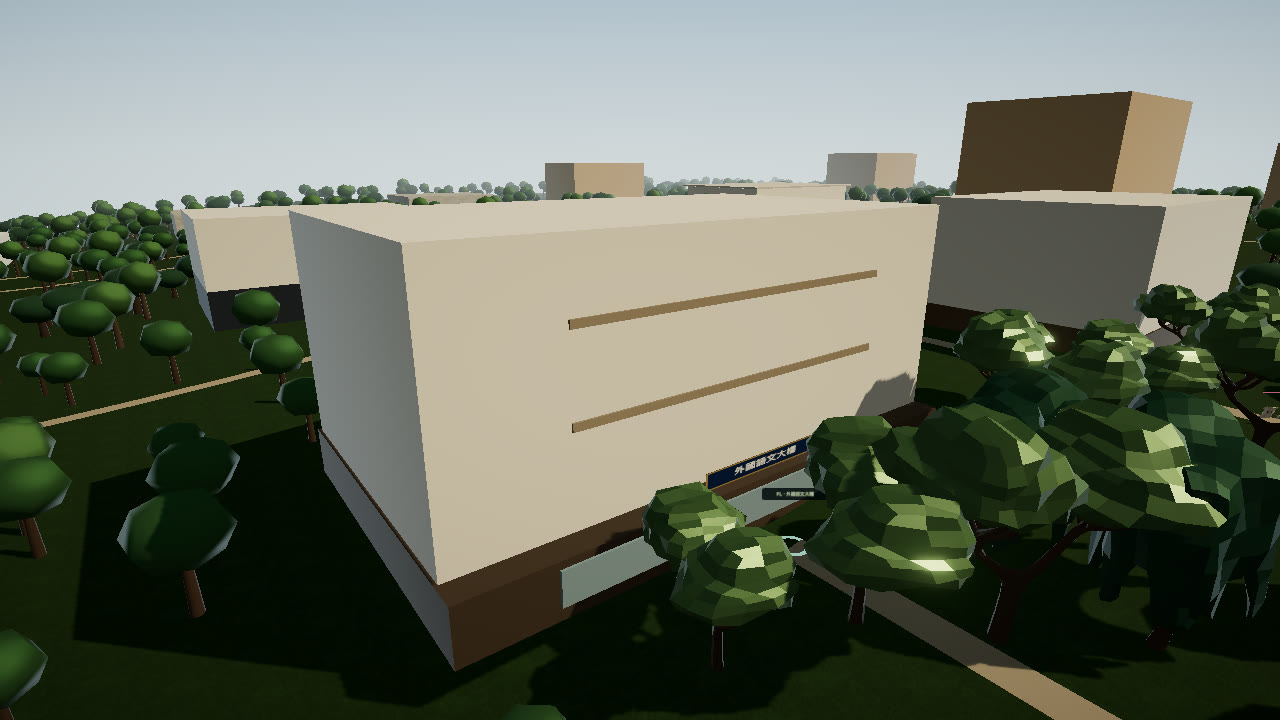
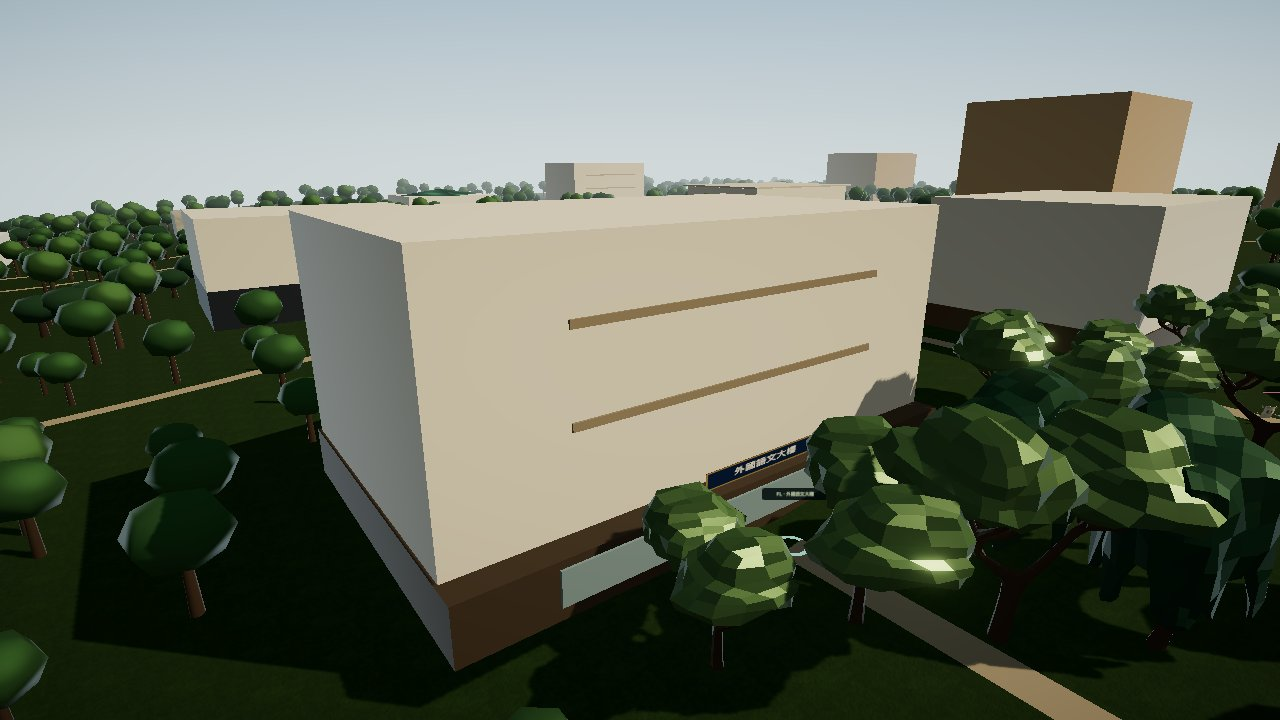
Record the foreign-language hall integration check.
The campus foreign hall is now a ground gallery with a set-back upper block. Education and Hweiwen stay classroom blocks.

diff --git a/docs/integration/CONTRACTS.md b/docs/integration/CONTRACTS.md
@@ -58,7 +58,7 @@ URL 帶內容雜湊。幾何與 atlas 共享。卸載只走 `releaseArtInstance`
 
 `form === "gate"` 的建築（大門警衛站、大忠警衛站）畫成兩根門柱加橫樑。`gatePiers` 的門柱寬是 1.5。碰撞只加在門柱上，開口中心可以站。這是估計外形，不是實測門寬。
 
-白樓的種類是 `white-block`。`theme === "arts"` 是 `hip-roof-block`，宿舍是 `dorm-block`，實驗樓是 `lab-block`，運動館是 `sport-hall`，教學樓是 `study-block`。清冊裡沿用的商管大樓 `business-building` 也是 `study-block`：深色基座、淺色上層、近處橫樑。書圖區的 `integrated` 是 `linked-hall`：玻璃基座用整棟底面積，上層退縮，上層窗帶跟 `linkedHallProfile` 的牆面，不再用整棟的寬。圖書館仍用既有量體。沿用的 `chingsheng-building` 是 `memorial-tower`：深色基座、石色樓身、底層玻璃、平頂壓簷，不畫共用窗帶，也沒有綠瓦。文學館仍是 `hip-roof-block`。樓身外形仍是 estimated。文藝區的 `conference` 是 `forum-hall`：低寬淺色量體、南向玻璃帶、出挑屋簷，不畫共用窗帶。海事博物館仍是船型。運動區的 `reviewing` 是 `stand`：低平台、後方小間、棚頂，不畫共用窗帶，也不畫實驗樓屋頂設備。台面還不能走上去。理工區的 `wind-lab` 是 `shed`：低長廠房、屋頂風管、一端進氣箱，不畫共用窗帶。化學館仍是 `lab-block`。理工區的 `architecture` 是 `studio-block`：混凝土量體、南向玻璃、遮陽板、屋頂採光，不畫共用窗帶。主題仍是 `arts`，id 覆寫留在主題判斷前面，所以不再戴綠瓦。工作室外形仍是 estimated。生活區的 `reitaku` 是 `intl-dorm`：淺灰綠牆、底層玻璃門廳、平頂橫樑。松濤仍是暖色 `dorm-block`。麗澤仍畫共用窗帶。生活區的 `faculty` 是 `faculty-house`：淺色樓身、南向門廊、兩條窗帶，不畫共用窗帶，也沒有宿舍屋頂量體。主題仍是 `dorm`，id 覆寫留在主題判斷前面。松濤一館到五館仍是 `dorm-block`。麗澤仍是 `intl-dorm`。門廊外形仍是 estimated。教學區的 `business-o` 與 `business-q` 是 `media-hall`：深色基座、淺色上層、屋頂天線。文學館仍是 `hip-roof-block`。傳播館仍畫共用窗帶。天線不是實測。文藝區的 `audiovisual` 是 `auditorium`：深色廳堂、屋頂一端舞台塔。共用窗帶仍畫。舞台塔不是實測。文藝區的 `commons` 是 `activity-hall`：一層門廳、南向玻璃、遮陽板、退縮上層，不畫共用窗帶。主題仍是 `arts`，id 覆寫留在主題判斷前面。分區仍是 culture-58。覺軒仍是 `hip-roof-block`。門廳外形仍是 estimated。文藝區的 `yingyuan` 是 `garden-house`：白牆、木色基座、收緊的綠瓦坡頂、南向迴廊，不畫共用窗帶。白牆從基座頂接到坡頂底。主題仍是 `arts`，id 覆寫留在主題判斷前面。文學館與覺軒仍是 `hip-roof-block`。迴廊與坡頂外形仍是 estimated。軸線上的 `security` 是 `watch-post`：低崗亭、南向窗、屋頂天線，不畫共用窗帶，也不畫實驗樓屋頂設備。主題仍是 `lab`，id 覆寫留在主題判斷前面。化學館仍是 `lab-block`。大門仍是 `gate`。崗亭外形仍是 estimated。理工區的 `engineering` 是 `eng-tower`：深色基座、退縮的淺色塔樓、兩條窗帶貼在退縮面上，不畫共用窗帶，也不畫實驗樓屋頂設備。主題仍是 `lab`，id 覆寫留在主題判斷前面。化學館仍是 `lab-block`。塔樓外形仍是 estimated。沿用的 `gymnasium` 是 `arena`：淺色館身、深色台基、南向高側窗、出挑平頂，不畫共用窗帶。司令臺仍是 `stand`。館身外形仍是 estimated。運動區的 `swimming` 是 `pool-hall`：深色基座、淺色長廳、南向高窗、屋頂長脊，不畫共用窗帶。主題仍是 `sport`，id 覆寫留在主題判斷前面。體育館仍是 `arena`。水道長度仍待測。館身外形仍是 estimated。文藝區的 `administration` 是 `office-block`：石色樓身、深色基座、南向入口玻璃、兩條窗帶，不畫共用窗帶。主題仍是 `study`，id 覆寫留在主題判斷前面。教育館、外語大樓與會文館仍是 `study-block`。舊的 admin-hall 不合併。入口位置仍待測。外形仍是 estimated。理工區的 `science` 是 `science-hall`：淺色館身、東側直玻璃、壓簷，不畫共用窗帶，也沒有實驗樓屋頂設備。主題仍是 `lab`，id 覆寫留在主題判斷前面。化學館仍是 `lab-block`。未匯出的舊剪影 `science-hall` 沒有畫進場景。館身外形仍是 estimated。理工區的 `old-engineering` 是 `workshop`：磚紅基座、淺色上層、南向玻璃、屋頂小間，不畫共用窗帶，也沒有實驗樓屋頂設備。主題仍是 `lab`，id 覆寫留在主題判斷前面。工學大樓仍是 `eng-tower`。化學館仍是 `lab-block`。館身外形仍是 estimated。精度仍是 estimated。`form === "gate"` 仍是 `gate`，不因教學樓量體改回方塊。窗帶、名牌、坡頂、宿舍退縮層、實驗樓屋頂設備和教學樓橫樑由 `contextShowsDetail` 決定。高畫質 90 m 內才畫，省電是 48 m。量體一直留著。精度仍是 estimated。
+白樓的種類是 `white-block`。`theme === "arts"` 是 `hip-roof-block`，宿舍是 `dorm-block`，實驗樓是 `lab-block`，運動館是 `sport-hall`，教學樓是 `study-block`。清冊裡沿用的商管大樓 `business-building` 也是 `study-block`：深色基座、淺色上層、近處橫樑。書圖區的 `integrated` 是 `linked-hall`：玻璃基座用整棟底面積，上層退縮，上層窗帶跟 `linkedHallProfile` 的牆面，不再用整棟的寬。圖書館仍用既有量體。沿用的 `chingsheng-building` 是 `memorial-tower`：深色基座、石色樓身、底層玻璃、平頂壓簷，不畫共用窗帶，也沒有綠瓦。文學館仍是 `hip-roof-block`。樓身外形仍是 estimated。文藝區的 `conference` 是 `forum-hall`：低寬淺色量體、南向玻璃帶、出挑屋簷，不畫共用窗帶。海事博物館仍是船型。運動區的 `reviewing` 是 `stand`：低平台、後方小間、棚頂，不畫共用窗帶，也不畫實驗樓屋頂設備。台面還不能走上去。理工區的 `wind-lab` 是 `shed`：低長廠房、屋頂風管、一端進氣箱，不畫共用窗帶。化學館仍是 `lab-block`。理工區的 `architecture` 是 `studio-block`：混凝土量體、南向玻璃、遮陽板、屋頂採光，不畫共用窗帶。主題仍是 `arts`，id 覆寫留在主題判斷前面，所以不再戴綠瓦。工作室外形仍是 estimated。生活區的 `reitaku` 是 `intl-dorm`：淺灰綠牆、底層玻璃門廳、平頂橫樑。松濤仍是暖色 `dorm-block`。麗澤仍畫共用窗帶。生活區的 `faculty` 是 `faculty-house`：淺色樓身、南向門廊、兩條窗帶，不畫共用窗帶，也沒有宿舍屋頂量體。主題仍是 `dorm`，id 覆寫留在主題判斷前面。松濤一館到五館仍是 `dorm-block`。麗澤仍是 `intl-dorm`。門廊外形仍是 estimated。教學區的 `business-o` 與 `business-q` 是 `media-hall`：深色基座、淺色上層、屋頂天線。文學館仍是 `hip-roof-block`。傳播館仍畫共用窗帶。天線不是實測。文藝區的 `audiovisual` 是 `auditorium`：深色廳堂、屋頂一端舞台塔。共用窗帶仍畫。舞台塔不是實測。文藝區的 `commons` 是 `activity-hall`：一層門廳、南向玻璃、遮陽板、退縮上層，不畫共用窗帶。主題仍是 `arts`，id 覆寫留在主題判斷前面。分區仍是 culture-58。覺軒仍是 `hip-roof-block`。門廳外形仍是 estimated。文藝區的 `yingyuan` 是 `garden-house`：白牆、木色基座、收緊的綠瓦坡頂、南向迴廊，不畫共用窗帶。白牆從基座頂接到坡頂底。主題仍是 `arts`，id 覆寫留在主題判斷前面。文學館與覺軒仍是 `hip-roof-block`。迴廊與坡頂外形仍是 estimated。軸線上的 `security` 是 `watch-post`：低崗亭、南向窗、屋頂天線，不畫共用窗帶，也不畫實驗樓屋頂設備。主題仍是 `lab`，id 覆寫留在主題判斷前面。化學館仍是 `lab-block`。大門仍是 `gate`。崗亭外形仍是 estimated。理工區的 `engineering` 是 `eng-tower`：深色基座、退縮的淺色塔樓、兩條窗帶貼在退縮面上，不畫共用窗帶，也不畫實驗樓屋頂設備。主題仍是 `lab`，id 覆寫留在主題判斷前面。化學館仍是 `lab-block`。塔樓外形仍是 estimated。沿用的 `gymnasium` 是 `arena`：淺色館身、深色台基、南向高側窗、出挑平頂，不畫共用窗帶。司令臺仍是 `stand`。館身外形仍是 estimated。運動區的 `swimming` 是 `pool-hall`：深色基座、淺色長廳、南向高窗、屋頂長脊，不畫共用窗帶。主題仍是 `sport`，id 覆寫留在主題判斷前面。體育館仍是 `arena`。水道長度仍待測。館身外形仍是 estimated。文藝區的 `administration` 是 `office-block`：石色樓身、深色基座、南向入口玻璃、兩條窗帶，不畫共用窗帶。主題仍是 `study`，id 覆寫留在主題判斷前面。教育館與會文館仍是 `study-block`。舊的 admin-hall 不合併。入口位置仍待測。外形仍是 estimated。教學區的 `foreign` 是 `language-hall`：暖色底層、南向長廊玻璃、退縮的淺色上層，不畫共用窗帶。上層窗帶貼著退縮的牆。主題仍是 `study`，id 覆寫留在主題判斷前面。舊的 foreign-lang-hall 不合併。長廊外形仍是 estimated。理工區的 `science` 是 `science-hall`：淺色館身、東側直玻璃、壓簷，不畫共用窗帶，也沒有實驗樓屋頂設備。主題仍是 `lab`，id 覆寫留在主題判斷前面。化學館仍是 `lab-block`。未匯出的舊剪影 `science-hall` 沒有畫進場景。館身外形仍是 estimated。理工區的 `old-engineering` 是 `workshop`：磚紅基座、淺色上層、南向玻璃、屋頂小間，不畫共用窗帶，也沒有實驗樓屋頂設備。主題仍是 `lab`，id 覆寫留在主題判斷前面。工學大樓仍是 `eng-tower`。化學館仍是 `lab-block`。館身外形仍是 estimated。精度仍是 estimated。`form === "gate"` 仍是 `gate`，不因教學樓量體改回方塊。窗帶、名牌、坡頂、宿舍退縮層、實驗樓屋頂設備和教學樓橫樑由 `contextShowsDetail` 決定。高畫質 90 m 內才畫，省電是 48 m。量體一直留著。精度仍是 estimated。
 
 高畫質的詳細樹冠半徑是 `vegetationRange` 48。再遠換成便宜樹冠。省電畫質本來就用 `simpleTrees`，70 m 是便宜樹冠的距離，不是第二個細模半徑。
 

diff --git a/docs/integration/HANDOFF.md b/docs/integration/HANDOFF.md
@@ -4,18 +4,18 @@
 
 ## 現在
 
-- 這次整合把濯纓苑／校史館改成白牆、木色基座、收緊的綠瓦坡頂和南向迴廊。白牆從基座頂接到坡頂底。遊戲程式是 `c571687`，接到 `origin/main` `65507cd`。
-- 迴廊與坡頂外形仍是 estimated。文學館與覺軒仍是坡頂。實棟學人宿舍仍是淺色樓身和南向門廊。
-- 沒有新增音效。1280×720 看得到白牆、基座、坡頂、迴廊和名牌。390×780 是近景，基座、白牆、坡頂和迴廊仍在畫面裡。
-- 跨系統路線在 `http://127.0.0.1:8134/` 通過：經驗 20、筆記 19、突襲小考 65→45、第二客戶端、`revision_conflict`、斷線佇列 `cloudXp` 23、登出 401。`pageErrors` 空。
+- 這次整合把外國語文大樓改成暖色底層、南向長廊玻璃和退縮的淺色上層。遊戲程式是 `088a3ef`，接到 `origin/main` `1565a74`。
+- 長廊外形仍是 estimated。教育館與會文館仍是教學樓。舊的 foreign-lang-hall 不合併。濯纓苑仍是白牆園舍。
+- 沒有新增音效。1280×720 看得到暖色底層、長廊玻璃、退縮上層、兩條窗帶和名牌。390×780 是南向近景，窗帶、名牌、長廊玻璃和底層仍在畫面裡。
+- 跨系統路線在 `http://127.0.0.1:8135/` 通過：經驗 20、筆記 19、突襲小考 65→45、第二客戶端、`revision_conflict`、斷線佇列 `cloudXp` 23、登出 401。`pageErrors` 空。
 
-## 本輪已驗證（濯纓苑）
+## 本輪已驗證（外國語文大樓）
 
-`node --test scripts/context-lod.test.mjs` 通過。`npm test` 266 通過。`node --experimental-transform-types scripts/integration-route.mjs` 走 `http://127.0.0.1:8134/`。幀時間是 SwiftShader。
+`node --test scripts/context-lod.test.mjs` 通過。`npm test` 266 通過。`node --experimental-transform-types scripts/integration-route.mjs` 走 `http://127.0.0.1:8135/`。幀時間是 SwiftShader。
 
 ## 下一步
 
-先 `git fetch`。濯纓苑已在 `main`，遊戲程式是 `c571687`。沒有再變就不要重跑跨系統路線，也不要為了對齊 SHA 再寫一筆。PR #32 的 `1fc5887` 仍不合併。整合 PR 是 #119。來源 `e478b9c` 不是祖先，不要單獨合併 PR #102。PR #101、#99、#97、#96、#93、#91、#90、#88、#86、#85、#82、#80、#79、#77、#75、#73、#72、#70、#68、#67、#65、#63、#61、#59、#56、#54、#53、#51 的程式已經在更早的整合裡，也不要再單獨合併。下一項是外語館（PR #105，`d5a28c8`），再來是植栽距離（PR #107，`4dc3786`）、關節彎曲（PR #108，`6ac2cf3`）、化學館（PR #110，`eee5c91`）、會文館（PR #111，`412b130`）、司令臺台面（PR #113，`f2750c7`）、低畫質行人（PR #115，`9672ff3`）、美術傳輸預算（PR #116，`9a3d594`）、宮燈大道四個時段（PR #118，`266e4b7`）。先看它們有沒有更新，再各自整合，不要單獨合併。三角形仍用 `7507c59` 那次重測。
+先 `git fetch`。外語館這輪已驗證，整合 PR 待開，還沒進 `main`。遊戲程式是 `088a3ef`。PR #32 的 `1fc5887` 仍不合併。來源 `d5a28c8` 不是祖先，不要單獨合併 PR #105。PR #102、#101、#99、#97、#96、#93、#91、#90、#88、#86、#85、#82、#80、#79、#77、#75、#73、#72、#70、#68、#67、#65、#63、#61、#59、#56、#54、#53、#51 的程式已經在更早的整合裡，也不要再單獨合併。下一項是植栽距離（PR #107，`4dc3786`），再來是關節彎曲（PR #108，`6ac2cf3`）、化學館（PR #110，`eee5c91`）、會文館（PR #111，`412b130`）、司令臺台面（PR #113，`f2750c7`）、低畫質行人（PR #115，`9672ff3`）、美術傳輸預算（PR #116，`9a3d594`）、宮燈大道四個時段（PR #118，`266e4b7`）。先看它們有沒有更新，再各自整合，不要單獨合併。三角形仍用 `7507c59` 那次重測。
 
 INT-01 與 INT-12 維持不動。不要新增學期選擇，也不要做第二套獎勵帳。
 

diff --git a/docs/integration/STATUS.md b/docs/integration/STATUS.md
@@ -1,13 +1,13 @@
 # 整合狀態
 
-更新：2026-11-12。濯纓苑／校史館是白牆、木色基座、收緊的綠瓦坡頂和南向迴廊。白牆從基座頂接到坡頂底。文學館與覺軒仍是坡頂。幀時間仍是 SwiftShader。
+更新：2026-11-12。外國語文大樓是暖色底層、南向長廊玻璃和退縮的淺色上層。教育館與會文館仍是教學樓。幀時間仍是 SwiftShader。
 本文件只記實際程式、PR 與本輪驗收。不把 M1 或 M2 當成整款遊戲完成，也不以 PR 或文件數量估算完成率。
 
 ## 三條線
 
 | 線 | 目前成果 | 開放 PR | 狀態 |
 | --- | --- | --- | --- |
-| 美術與場景 | 濯纓苑／校史館是白牆、木色基座、收緊的綠瓦坡頂和南向迴廊。 | 來源 PR #102 `e478b9c`。整合 PR #119 | `merged` |
+| 美術與場景 | 外國語文大樓是暖色底層、南向長廊玻璃和退縮的淺色上層。 | 來源 PR #105 `d5a28c8`。整合 PR 待開 | `verified` |
 | 後端 | 可選 RPG 雲端存檔已在 `main`。未登入只寫本機。第一次上傳要明示。衝突回 `revision_conflict`，由玩家選保留雲端或本機。靜態產物不含這套 API。 | [#9](https://github.com/aa0968111723-prog/forge-bloom-quiet-falcon/pull/9) 與 [#13](https://github.com/aa0968111723-prog/forge-bloom-quiet-falcon/pull/13) 已合併 | `merged` |
 | 內容 | `/narrative` 預覽與校園進入點都在 `main`。大門對話的獎勵寫進既有經驗、背包與 `claimed`。 | [#18](https://github.com/aa0968111723-prog/forge-bloom-quiet-falcon/pull/18) 已合併 | `merged` |
 
@@ -15,15 +15,15 @@
 
 ## 本輪範圍
 
-`yingyuan` 的量體是 `garden-house`。白牆、木色基座、收緊的綠瓦坡頂、南向迴廊。不畫共用窗帶。白牆從基座頂接到坡頂底。迴廊與坡頂外形仍是 estimated。文學館與覺軒仍是坡頂。實棟學人宿舍仍是淺色樓身和南向門廊。戰鬥、獎勵、科系目錄與學期沒有改。
+`foreign` 的量體是 `language-hall`。暖色底層、南向長廊玻璃、退縮的淺色上層。不畫共用窗帶。上層窗帶貼著退縮的牆。長廊外形仍是 estimated。教育館與會文館仍是教學樓。舊的 foreign-lang-hall 不合併。濯纓苑仍是白牆園舍。戰鬥、獎勵、科系目錄與學期沒有改。
 
 ## 路線
 
 | 項目 | 狀態 |
 | --- | --- |
-| 已製作 | 只改濯纓苑的量體，並把白牆接到基座和坡頂。文學館、覺軒與實棟學人宿舍留著 |
-| 已驗證 | 靜態頁 `http://127.0.0.1:8134/`。1280×720 看得到白牆、木色基座、綠瓦坡頂、南向迴廊和名牌。390×780 是近景，基座、白牆、坡頂和迴廊仍在畫面裡。`npm test` 266 通過。跨系統路線在同一站 |
-| 已合併 | 是。遊戲程式 `c571687`。整合 PR #119。`main` 未受保護、沒有必須的 check |
+| 已製作 | 只改外國語文大樓的量體。教育館、會文館與濯纓苑留著 |
+| 已驗證 | 靜態頁 `http://127.0.0.1:8135/`。1280×720 看得到暖色底層、南向長廊玻璃、退縮的淺色上層、兩條窗帶和名牌。390×780 是南向近景，窗帶、名牌、長廊玻璃和底層仍在畫面裡。`npm test` 266 通過。跨系統路線在同一站 |
+| 已合併 | 否。遊戲程式 `088a3ef`。整合 PR 待開。`main` 未受保護、沒有必須的 check |
 | 已部署 | 否 |
 
 ## 尚未完成的遊戲範圍

diff --git a/docs/integration/KNOWN-ISSUES.md b/docs/integration/KNOWN-ISSUES.md
@@ -3,7 +3,7 @@
 | ID | 狀態 | 說明 | 下一步 |
 | --- | --- | --- | --- |
 | INT-01 | blocked | 科系有兩份清冊：`src/game/departments.ts` 與 `src/game/rpg/data.ts`。id 形狀不同，只在匯入時依名稱對應。 | 等內容線指定唯一 id。在那之前不刪任何一邊 |
-| INT-02 | 已處理 | 雲端存檔與第二客戶端已在 `main`。濯纓苑這版又走一次：上傳、下載、衝突、斷線、登出都通過 | 遊戲程式沒再變就不要重跑 |
+| INT-02 | 已處理 | 雲端存檔與第二客戶端已在 `main`。外國語文大樓這版又走一次：上傳、下載、衝突、斷線、登出都通過 | 遊戲程式沒再變就不要重跑 |
 | INT-03 | 已處理 | 走路／跑步時 idle 權重為 0，walk／run 沒有 `head` 軌，glance 用 `+=` 會把頭越轉越偏。Codex 在 PR #6 的意見 | `look.ts` 先還原上一幀剪輯姿勢再加一次 glance。測試：`scripts/art-runtime.test.mjs` |
 | INT-04 | 已處理 | 複製骨架在卸載時要釋放 bone texture。M2 美術線改成 `releaseArtInstance`，與整合線的 `disposeOwnedArt` 衝突 | 只留 `releaseArtInstance`。刪 `src/game/art/instance.ts`。測試改呼叫它，共享幾何仍不釋放 |
 | INT-05 | needs_review | 美術線 KI-03、KI-17：鞋頭偏扁、手為連指；頂着高台時速度被歸零所以播 idle | 留在美術線下一項。本輪不改移動規則 |
